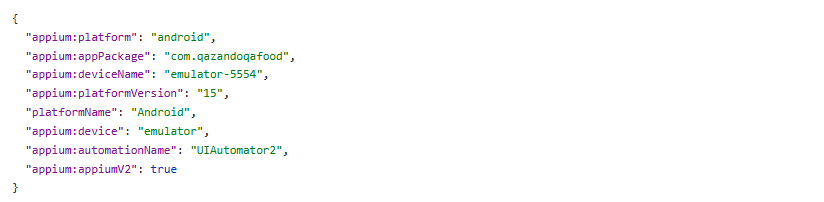
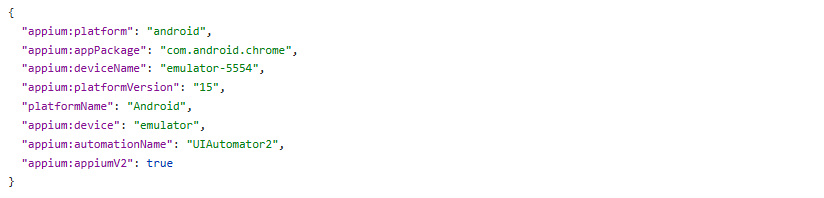
refactor: Ajustes de teste

diff --git a/steps/e2e/search_test.js b/steps/e2e/search_test.js
@@ -1,0 +1,31 @@
+Feature('search').tag('@search');
+
+const {I, searchPage } = inject(); // Declarando no escopo global, assim consigo usar em qualquer cenário de teste
+
+// Executa sempre antes de cada Teste
+Before(() => {
+    console.log("Somente um teste!");
+});
+
+// Executa sempre depois de cada Teste
+After(() => {
+    console.log("Somente um teste!");
+});
+
+Scenario('Pesquisa com sucesso',  ({ I }) => {
+    I.runOnAndroid(() => {
+        console.log("Rodou no Android!");
+    });
+
+    I.runOnIOS(() => {
+        console.log("Rodou no IOS!");
+    });
+
+    searchPage.doSearch('Search or type URL', 'Maestro Framework');
+
+}).tag('@pesquisa_sucesso');
+
+Scenario('Pesquisa com erro',  ({ I }) => {
+    searchPage.doSearch('Pesquisa aqui', 'Mestre dos magos');
+    searchPage.checkTextError();
+}).tag('@pesquisa_erro');

diff --git a/pages/search.js b/pages/search.js
@@ -1,0 +1,29 @@
+const { I } = inject();
+
+module.exports = {
+    fields: {
+        search: '#search_box',
+        link: '#com.android.chrome:id/line_1'
+    },
+
+    text: {
+        text_error: 'Maestro'
+    },
+
+    doSearch(text_default, text_input) {
+        //pause(); // Comando para debugar manualmente os testes, cada teste o mesmo salva na pasta outputs o histótico
+        //Toda vez que o teste falha o mesmo tira uma screenshot e salva na pasta output
+
+        I.waitForElement(this.fields.search, 5);
+        I.see(text_default);
+        I.fillField(this.fields.search, text_input);
+    
+        I.waitForElement(this.fields.link);
+        I.click(this.fields.link);
+    },
+
+    checkTextError() {
+        I.waitForText(this.text.text_error, 5);
+        I.see(this.text.text_error);
+    }
+}

diff --git a/codecept.conf.js b/codecept.conf.js
@@ -41,7 +41,8 @@ exports.config = {
     },
     include: {
         I: './steps_file.js',
-        loginPage: "./pages/login.js"
+        loginPage: "./pages/login.js",
+        searchPage: "./pages/search.js"
     },
     plugins: {
         screenShotOnFail: {
